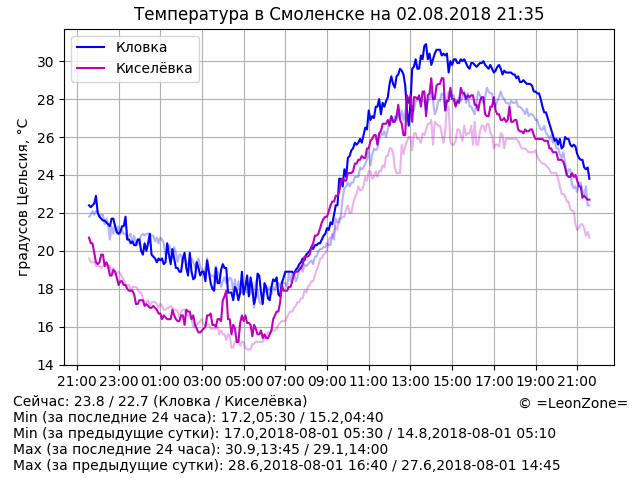
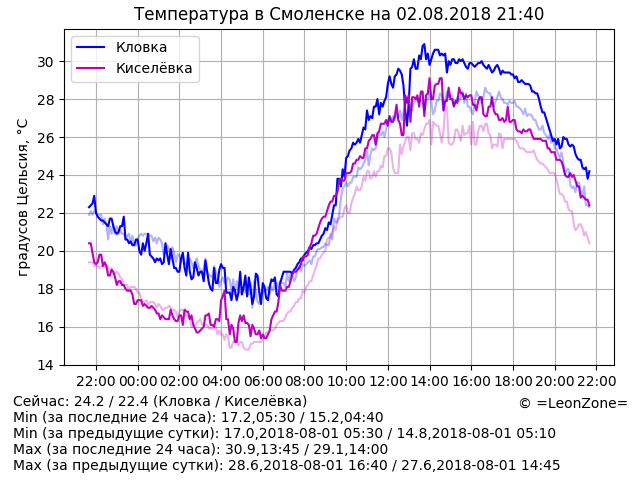
Update data

Changed region(s): [[0.125, 0.0938, 0.9375, 0.75], [0.0938, 0.7812, 0.9688, 0.8438], [0.8125, 0.0, 0.8438, 0.0625]]

diff --git a/index.html b/index.html
@@ -14,7 +14,7 @@
 	<p align="center"><script>document.write("<img src=\"graph.png?rnd="+Math.random()+"\" alt=\"Температура в Смоленске\" align=\"middle\" width=\"640\" height=\"480\" />")</script>
 	<p hidden="true">
 <!-- textinfo -->
-Сейчас: 23.8 / 22.7 (Кловка / Киселёвка)
+Сейчас: 24.2 / 22.4 (Кловка / Киселёвка)
 Min (за последние 24 часа): 17.2,05:30 / 15.2,04:40
 Min (за предыдущие сутки): 17.0,2018-08-01 05:30 / 14.8,2018-08-01 05:10
 Max (за последние 24 часа): 30.9,13:45 / 29.1,14:00
